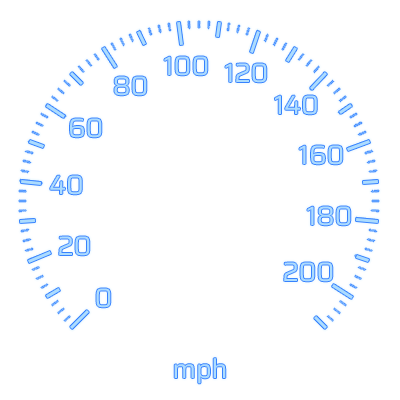
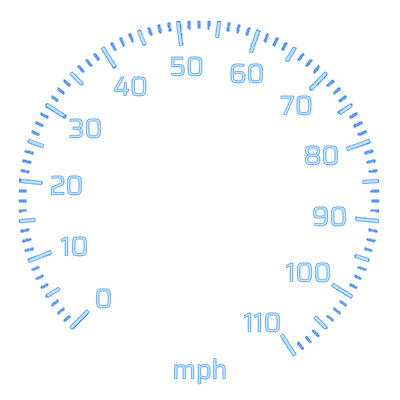
Release 3.2.4

diff --git a/src/bin/modules/states/gauge.js b/src/bin/modules/states/gauge.js
@@ -41,13 +41,10 @@ const gaugeStates = async (TPClient, refreshInterval, telemetry_path, logIt, tim
 	let image_arrow_rpm = await Jimp.read(`${path}/images/RPMNeedle.png`);
 	let image_arrow_fuel = await Jimp.read(`${path}/images/FuelNeedle.png`);
 
-
 	let image2_Speed = ""
-	if(userconfig.unit === "Kilometer") {
-		image2_Speed = await Jimp.read(`${path}/images/SpeedGauge_kmh.png`);
-	} else {
-		image2_Speed = await Jimp.read(`${path}/images/SpeedGauge_mph.png`);
-	}
+	let image2_Speed_KMH = await Jimp.read(`${path}/images/SpeedGauge_kmh.png`);
+	let image2_Speed_MPH = await Jimp.read(`${path}/images/SpeedGauge_mph.png`);
+
 	let image2_RPM = await Jimp.read(`${path}/images/RPMGauge.png`);
 	let image2_Fuel = await Jimp.read(`${path}/images/FuelGauge.png`);
 
@@ -90,17 +87,11 @@ const gaugeStates = async (TPClient, refreshInterval, telemetry_path, logIt, tim
 			if(Speed !== SpeedOld || unit !== unitOld) {
 				SpeedOld = Speed
 
-				if (unit === "miles") {
-					Speed = Math.floor(Speed / 1.609344)
-				} else {
-					Speed = Math.round(Speed)
-				}
-
 				if(Speed < 0) {
 					Speed = Math.abs(Speed)
 				}
 				
-				SpeedGauge = await getSpeedGauge(Speed)
+				SpeedGauge = await getSpeedGauge(Speed, unit)
 
 				var data = {
 					id: "Nybo.ETS2.Gauges.SpeedGauge",
@@ -159,8 +150,13 @@ const gaugeStates = async (TPClient, refreshInterval, telemetry_path, logIt, tim
 				return (n - a) * (n - b) <= 0
 			}
 			
-			async function getSpeedGauge(Speed) {
+			async function getSpeedGauge(Speed, unit) {
 				return new Promise(async (resolve, reject) => {
+					if(unit === "miles") {
+						image2_Speed = image2_Speed_MPH
+					} else {
+						image2_Speed = image2_Speed_KMH
+					}
 					
 					async function getSpeedGauge(rotate) {
 						var getSpeedGaugeRotate = -2
@@ -170,6 +166,7 @@ const gaugeStates = async (TPClient, refreshInterval, telemetry_path, logIt, tim
 						
 						image_Speed_clone.rotate(Math.floor(rotate))
 						image_Speed_clone.resize(400, 400)
+						image2_Speed_clone.resize(400, 400)
 						image2_Speed_clone.composite(image_Speed_clone, 0, 0)
 						image2_Speed_clone.getBase64Async(Jimp.AUTO)
 
@@ -177,8 +174,15 @@ const gaugeStates = async (TPClient, refreshInterval, telemetry_path, logIt, tim
 							resolve(base64.slice(22))
 						})
 					}
-					// -261
-					Speed = Math.floor(Speed/0.765)
+
+					if(unit === "miles") {
+						// -288
+						Speed = Math.floor(Speed/0.382)
+					} else {
+						// -261
+						Speed = Math.floor(Speed/0.765)
+					}
+					
 					Speed = -Speed 
 					await getSpeedGauge(Speed)
 					
@@ -195,6 +199,7 @@ const gaugeStates = async (TPClient, refreshInterval, telemetry_path, logIt, tim
 		
 						image_RPM_clone.rotate(Math.floor(getRPMGaugeRotate - rotate))
 						image_RPM_clone.resize(400, 400)
+						image2_RPM_clone.resize(400, 400)
 						image2_RPM_clone.composite(image_RPM_clone, 0, 0)
 						image2_RPM_clone.getBase64Async(Jimp.AUTO)
 							.then(base64 => {

diff --git a/CHANGELOG.md b/CHANGELOG.md
@@ -1,6 +1,10 @@
 
 # Changelog
 ```
+### Changelog 3.2.4 
+- Added Auto Switch Gauge Picture
+- Fixed Consumption not calculating
+
 ### Changelog 3.2.2
 - Fixed Config File getting Destroyed
 
